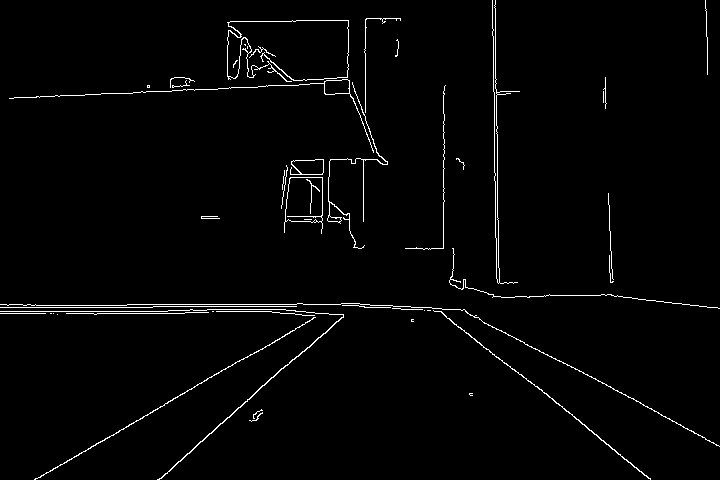
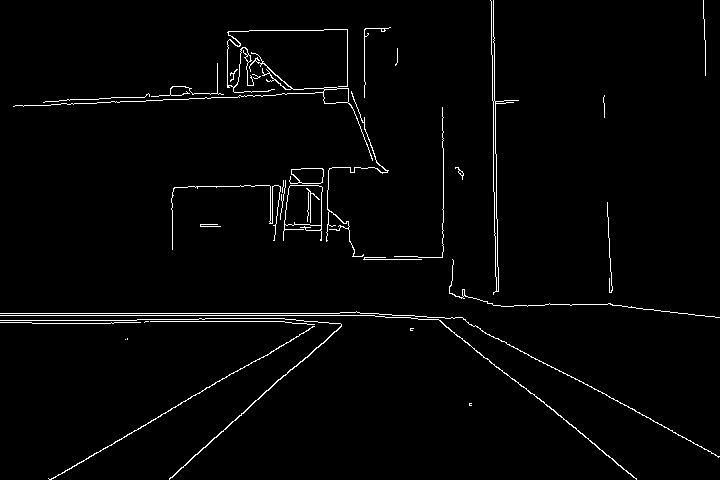
drawing found line segments on original image

diff --git a/Code/Server/new_lane_keep.py b/Code/Server/new_lane_keep.py
@@ -51,11 +51,31 @@ def region_of_interest(edges):
    cropped_edges = cv2.bitwise_and(edges, mask)
    return cropped_edges
 
+def detect_line_segments(cropped_edges):
+    # tuning min_threshold, minLineLength, maxLineGap is a trial and error process by hand
+    rho = 1  # distance precision in pixel, i.e. 1 pixel
+    angle = np.pi / 180  # angular precision in radian, i.e. 1 degree
+    min_threshold = 10  # minimal of votes
+    line_segments = cv2.HoughLinesP(cropped_edges, rho, angle, min_threshold, 
+                                    np.array([]), minLineLength=8, maxLineGap=4)
+
+    return line_segments
+
+def display_lines(frame, lines, line_color=(0, 255, 0), line_width=10):
+    line_image = np.zeros_like(frame)
+    if lines is not None:
+        for line in lines:
+            for x1, y1, x2, y2 in line:
+                cv2.line(line_image, (x1, y1), (x2, y2), line_color, line_width)
+    line_image = cv2.addWeighted(frame, 0.8, line_image, 1, 1)
+    return line_image
 
 cv2.imshow("masked edges", masked_edges)
 cropped_img = region_of_interest(masked_edges)
 cv2.imshow("cropped image", cropped_img)
-
+line_segs = detect_line_segments(cropped_img)
+line_segs_img = display_lines(image, line_segs)
+cv2.imshow("detected lines", line_segs_img)
 
 '''rho = 1
 theta = np.pi/180
@@ -82,4 +102,5 @@ cv2.imwrite("masked_edges.png", masked_edges)
 cv2.imwrite("original.png", image)
 cv2.imwrite("gray.png", gray)
 cv2.imwrite("cropped.png", cropped_img)
+cv2.imwrite("line_segs.png", line_segs)
 cv2.waitKey(0)
